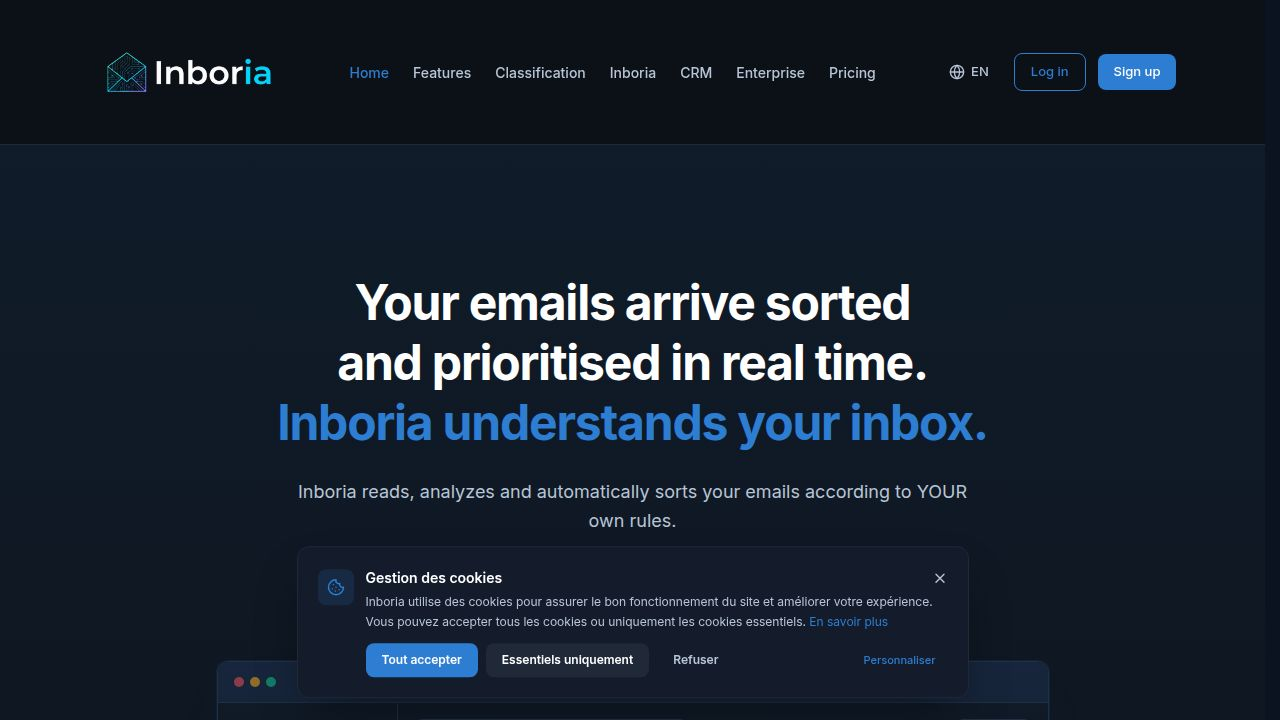
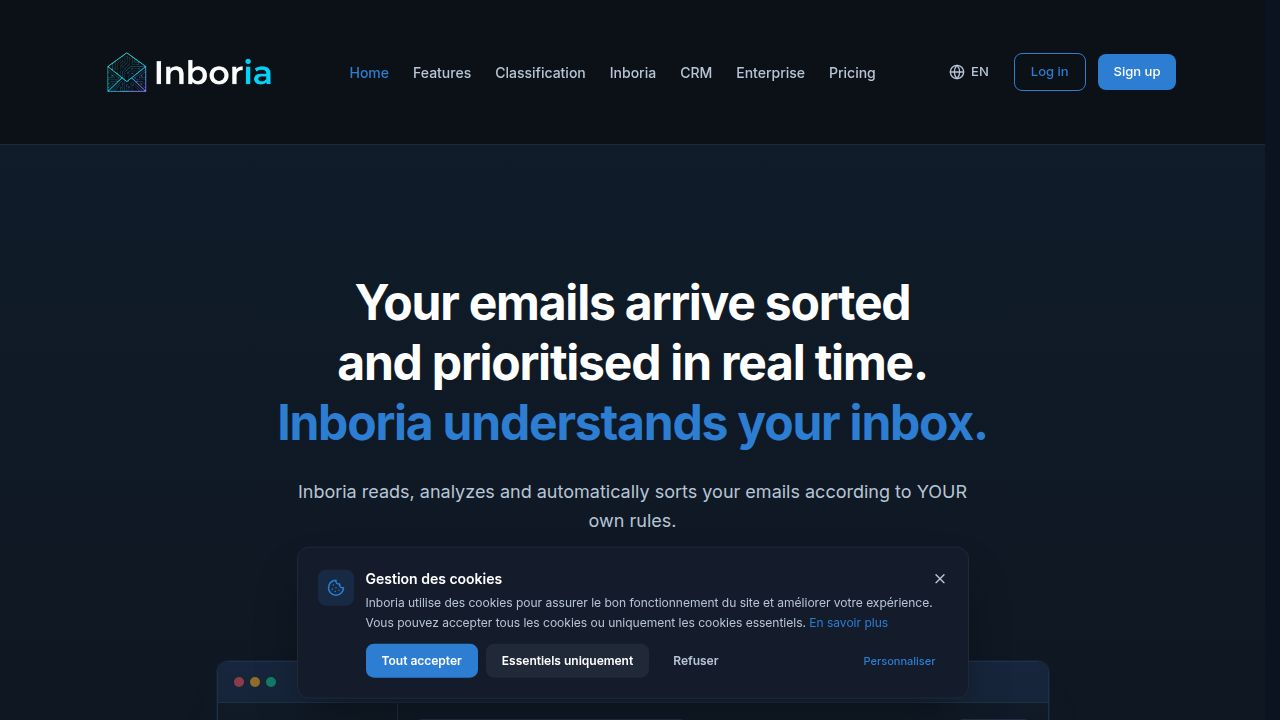
Improve how meeting suggestions are displayed in the agenda view
Filter out user-proposed meetings from the "Suggestions to confirm" section, as these are handled elsewhere.

Replit-Commit-Author: Agent
Replit-Commit-Session-Id: e122cdd4-7dfc-4ad3-b0a9-70ad7757b7cb
Replit-Commit-Checkpoint-Type: full_checkpoint
Replit-Commit-Event-Id: 9ff5866f-4a60-46e2-b825-6a66c369fa83
Replit-Commit-Screenshot-Url: https://storage.googleapis.com/screenshot-production-us-central1/2f7c7417-8ab2-41fb-9fcc-9eddd617f0df/e122cdd4-7dfc-4ad3-b0a9-70ad7757b7cb/77qLxPS
Replit-Helium-Checkpoint-Created: true

Changed region(s): [[0.2812, 0.7944, 0.7188, 0.9472], [0.5312, 0.9167, 0.5625, 0.9472], [0.4062, 0.9167, 0.4375, 0.9472]]

diff --git a/artifacts/ncv-mail/src/pages/dashboard/agenda.tsx b/artifacts/ncv-mail/src/pages/dashboard/agenda.tsx
@@ -421,7 +421,14 @@ export default function Agenda() {
   };
 
   const suggestions = useMemo(() => {
-    return (allAppointmentsForSuggestions as any[]).filter((apt) => apt.confirmed === false);
+    // N'affiche QUE les suggestions detectees dans des mails entrants
+    // (proposalRecipient null). Les RDV proposes par l'utilisateur lui-meme
+    // (proposalRecipient renseigne) sont en attente d'une reponse du contact
+    // et n'ont rien a faire dans "Suggestions a confirmer" : ils apparaissent
+    // deja dans la grille avec leur badge "En attente".
+    return (allAppointmentsForSuggestions as any[]).filter(
+      (apt) => apt.confirmed === false && !apt.proposalRecipient,
+    );
   }, [allAppointmentsForSuggestions]);
 
   useEffect(() => {